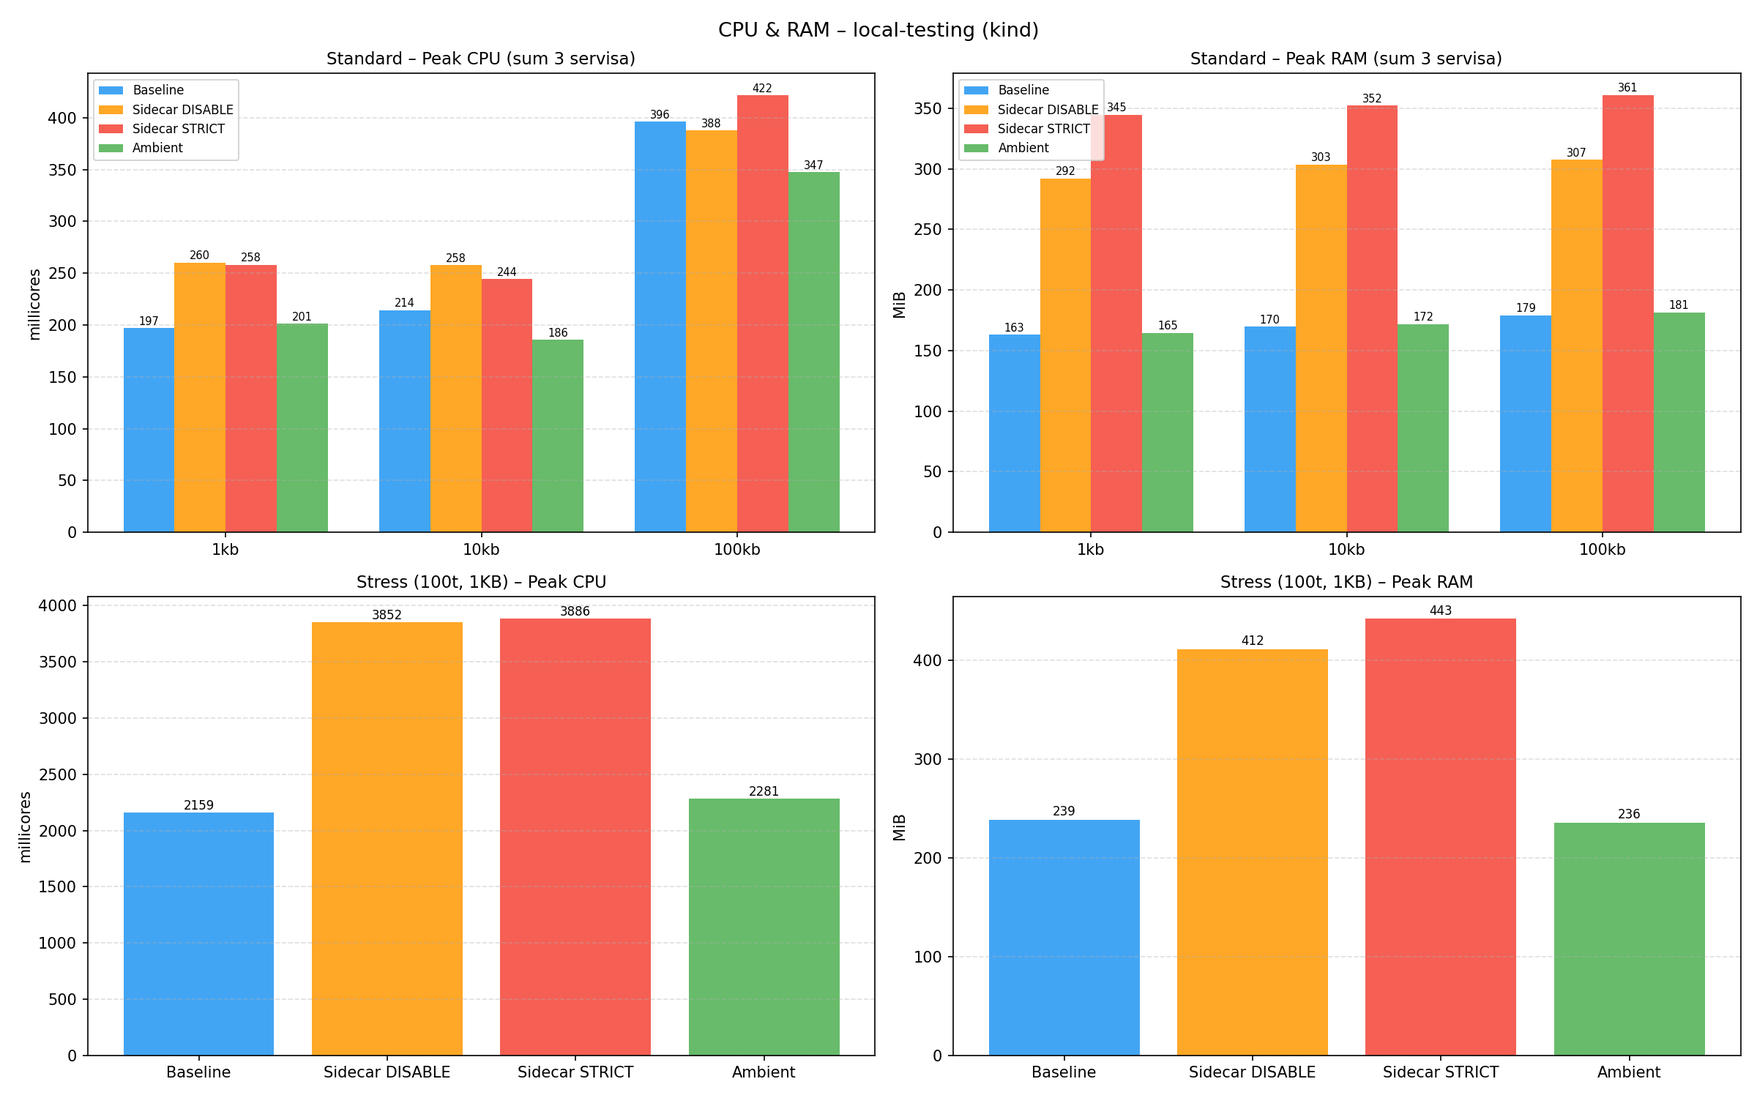
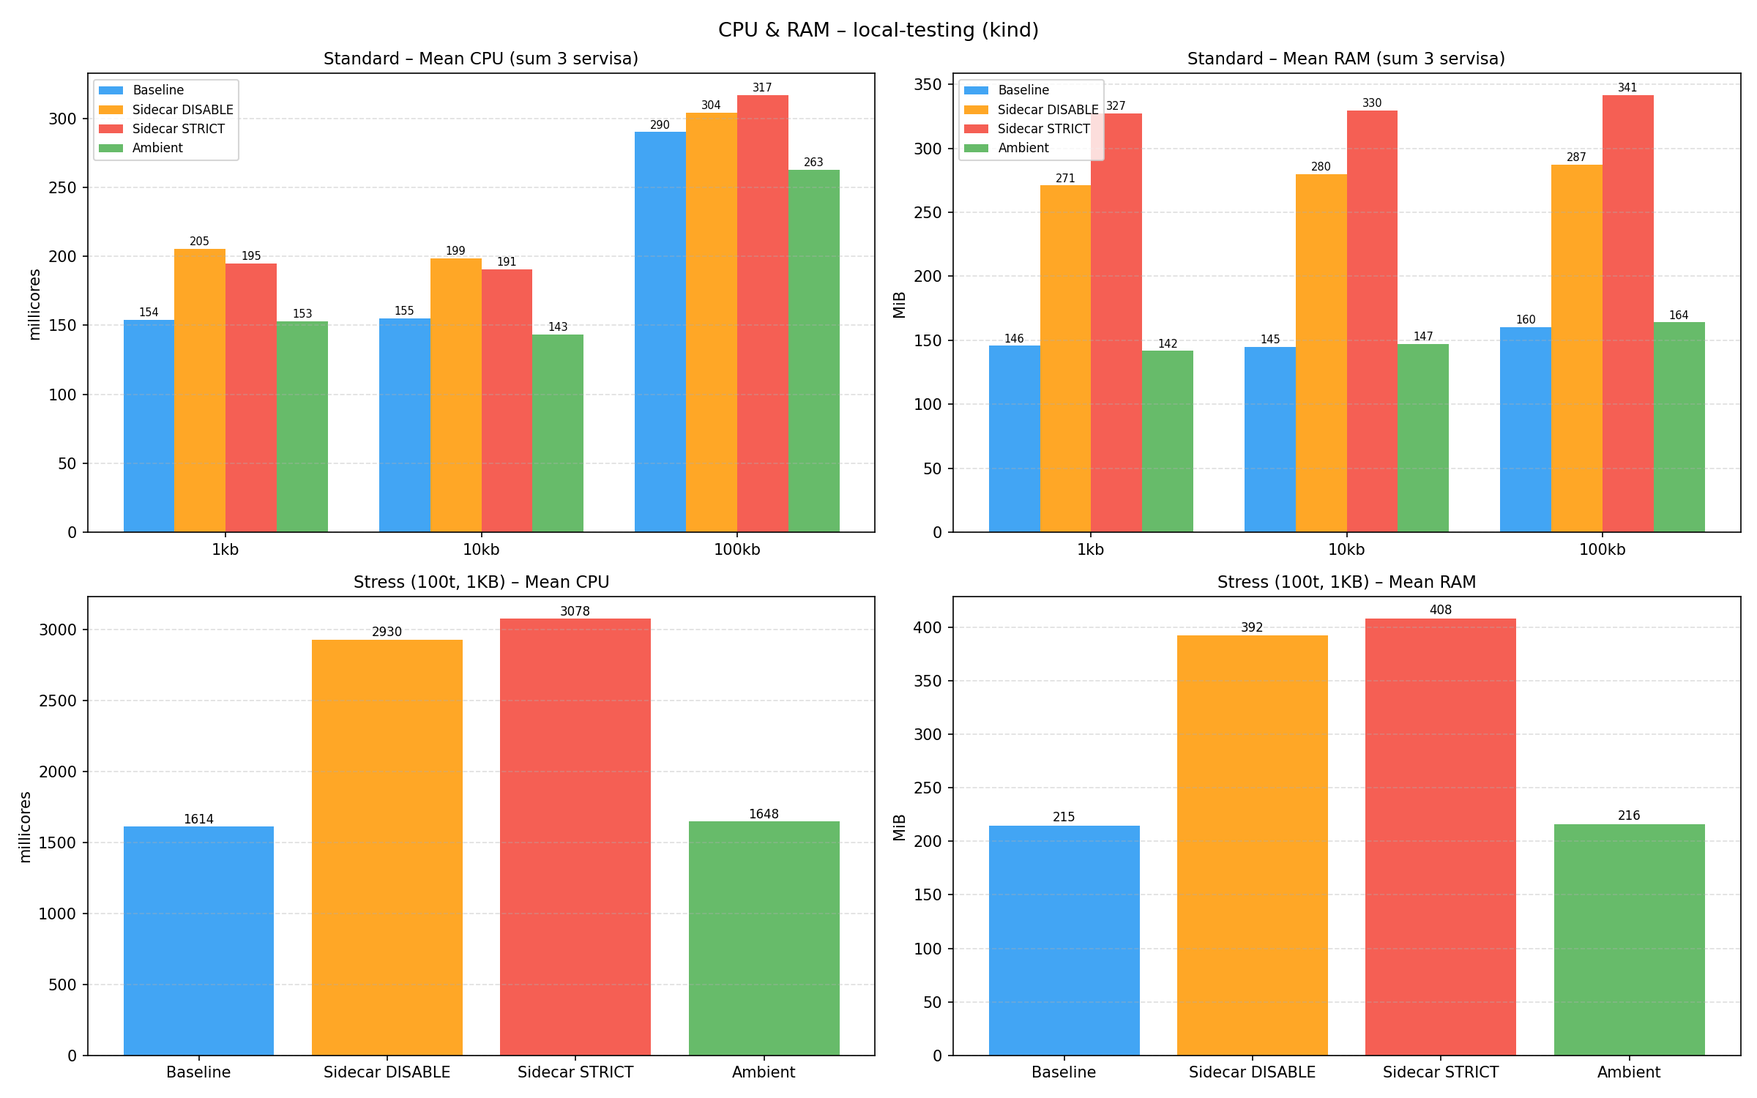
additional improvements in readme and results

diff --git a/generate_charts.py b/generate_charts.py
@@ -47,7 +47,7 @@ def lt_load_stress_runs(scenario, threads, payload, n_runs=3):
     return sum(qps_list)/n_runs, sum(avg_list)/n_runs, sum(p99_list)/n_runs
 
 def lt_load_resources_csv(scenario, test_type, payload, run_id):
-    """Učitaj resources CSV za jedan run, vrati peak CPU (sum sva 3 servisa) i peak RAM."""
+    """Učitaj resources CSV za jedan run, vrati mean CPU (sum sva 3 servisa) i mean RAM."""
     if test_type == "standard":
         path = os.path.join(LOCAL_TESTING, scenario, "03_resources_standard",
                             payload, f"run{run_id}_resources.csv")
@@ -72,9 +72,9 @@ def lt_load_resources_csv(scenario, test_type, payload, run_id):
                 if svc in pod:
                     cpu_by_svc[svc].append(cpu_val)
                     ram_by_svc[svc].append(ram_val)
-    peak_cpu = sum(max(v) if v else 0 for v in cpu_by_svc.values())
-    peak_ram = sum(max(v) if v else 0 for v in ram_by_svc.values())
-    return peak_cpu, peak_ram
+    mean_cpu = sum(sum(v)/len(v) if v else 0 for v in cpu_by_svc.values())
+    mean_ram = sum(sum(v)/len(v) if v else 0 for v in ram_by_svc.values())
+    return mean_cpu, mean_ram
 
 # ── LOCAL-TESTING 1. Bar chart – standard latency po payload-u ──
 def lt_chart_standard():
@@ -172,7 +172,7 @@ def lt_chart_stress():
     print(f"Saved: {out}")
     plt.close()
 
-# ── LOCAL-TESTING 3. Bar chart – peak CPU i RAM po scenariju ──
+# ── LOCAL-TESTING 3. Bar chart – mean CPU i RAM po scenariju ──
 def lt_chart_resources():
     scenarios = {
         "Baseline":        "baseline",
@@ -182,7 +182,7 @@ def lt_chart_resources():
     }
     payloads = ["1kb", "10kb", "100kb"]
 
-    # Prikupi peak CPU i RAM za standard testove (mean po 5 runova)
+    # Prikupi mean CPU i RAM za standard testove (mean po 5 runova)
     std_cpu = {label: [] for label in scenarios}
     std_ram = {label: [] for label in scenarios}
     for label, sc in scenarios.items():
@@ -198,7 +198,7 @@ def lt_chart_resources():
             std_cpu[label].append(sum(cpus)/len(cpus) if cpus else 0)
             std_ram[label].append(sum(rams)/len(rams) if rams else 0)
 
-    # Prikupi peak CPU i RAM za stress 100t 1kb (mean po 3 runa)
+    # Prikupi mean CPU i RAM za stress 100t 1kb (mean po 3 runa)
     stress_cpu = {label: 0 for label in scenarios}
     stress_ram = {label: 0 for label in scenarios}
     for label, sc in scenarios.items():
@@ -227,7 +227,7 @@ def lt_chart_resources():
         for bar in bars:
             ax.text(bar.get_x() + bar.get_width()/2, bar.get_height() + 1,
                     f"{bar.get_height():.0f}", ha="center", va="bottom", fontsize=7)
-    ax.set_title("Standard – Peak CPU (sum 3 servisa)", fontsize=11)
+    ax.set_title("Standard – Mean CPU (sum 3 servisa)", fontsize=11)
     ax.set_ylabel("millicores")
     ax.set_xticks(x)
     ax.set_xticklabels(payloads)
@@ -242,7 +242,7 @@ def lt_chart_resources():
         for bar in bars:
             ax.text(bar.get_x() + bar.get_width()/2, bar.get_height() + 1,
                     f"{bar.get_height():.0f}", ha="center", va="bottom", fontsize=7)
-    ax.set_title("Standard – Peak RAM (sum 3 servisa)", fontsize=11)
+    ax.set_title("Standard – Mean RAM (sum 3 servisa)", fontsize=11)
     ax.set_ylabel("MiB")
     ax.set_xticks(x)
     ax.set_xticklabels(payloads)
@@ -258,7 +258,7 @@ def lt_chart_resources():
     for bar in bars:
         ax.text(bar.get_x() + bar.get_width()/2, bar.get_height() + 1,
                 f"{bar.get_height():.0f}", ha="center", va="bottom", fontsize=8)
-    ax.set_title("Stress (100t, 1KB) – Peak CPU", fontsize=11)
+    ax.set_title("Stress (100t, 1KB) – Mean CPU", fontsize=11)
     ax.set_ylabel("millicores")
     ax.grid(axis="y", linestyle="--", alpha=0.4)
 
@@ -269,7 +269,7 @@ def lt_chart_resources():
     for bar in bars:
         ax.text(bar.get_x() + bar.get_width()/2, bar.get_height() + 1,
                 f"{bar.get_height():.0f}", ha="center", va="bottom", fontsize=8)
-    ax.set_title("Stress (100t, 1KB) – Peak RAM", fontsize=11)
+    ax.set_title("Stress (100t, 1KB) – Mean RAM", fontsize=11)
     ax.set_ylabel("MiB")
     ax.grid(axis="y", linestyle="--", alpha=0.4)
 
@@ -330,9 +330,9 @@ def rt_load_resources_csv(scenario, test_type, payload, run_id):
                 if svc in pod:
                     cpu_by_svc[svc].append(cpu_val)
                     ram_by_svc[svc].append(ram_val)
-    peak_cpu = sum(max(v) if v else 0 for v in cpu_by_svc.values())
-    peak_ram = sum(max(v) if v else 0 for v in ram_by_svc.values())
-    return peak_cpu, peak_ram
+    mean_cpu = sum(sum(v)/len(v) if v else 0 for v in cpu_by_svc.values())
+    mean_ram = sum(sum(v)/len(v) if v else 0 for v in ram_by_svc.values())
+    return mean_cpu, mean_ram
 
 def rt_chart_standard():
     scenarios = {
@@ -470,7 +470,7 @@ def rt_chart_resources():
         for bar in bars:
             ax.text(bar.get_x() + bar.get_width()/2, bar.get_height() + 1,
                     f"{bar.get_height():.0f}", ha="center", va="bottom", fontsize=7)
-    ax.set_title("Standard – Peak CPU (sum 3 servisa)", fontsize=11)
+    ax.set_title("Standard – Mean CPU (sum 3 servisa)", fontsize=11)
     ax.set_ylabel("millicores")
     ax.set_xticks(x)
     ax.set_xticklabels(payloads)
@@ -484,7 +484,7 @@ def rt_chart_resources():
         for bar in bars:
             ax.text(bar.get_x() + bar.get_width()/2, bar.get_height() + 1,
                     f"{bar.get_height():.0f}", ha="center", va="bottom", fontsize=7)
-    ax.set_title("Standard – Peak RAM (sum 3 servisa)", fontsize=11)
+    ax.set_title("Standard – Mean RAM (sum 3 servisa)", fontsize=11)
     ax.set_ylabel("MiB")
     ax.set_xticks(x)
     ax.set_xticklabels(payloads)
@@ -499,7 +499,7 @@ def rt_chart_resources():
     for bar in bars:
         ax.text(bar.get_x() + bar.get_width()/2, bar.get_height() + 1,
                 f"{bar.get_height():.0f}", ha="center", va="bottom", fontsize=8)
-    ax.set_title("Stress (100t, 1KB) – Peak CPU", fontsize=11)
+    ax.set_title("Stress (100t, 1KB) – Mean CPU", fontsize=11)
     ax.set_ylabel("millicores")
     ax.grid(axis="y", linestyle="--", alpha=0.4)
 
@@ -509,7 +509,7 @@ def rt_chart_resources():
     for bar in bars:
         ax.text(bar.get_x() + bar.get_width()/2, bar.get_height() + 1,
                 f"{bar.get_height():.0f}", ha="center", va="bottom", fontsize=8)
-    ax.set_title("Stress (100t, 1KB) – Peak RAM", fontsize=11)
+    ax.set_title("Stress (100t, 1KB) – Mean RAM", fontsize=11)
     ax.set_ylabel("MiB")
     ax.grid(axis="y", linestyle="--", alpha=0.4)
 

diff --git a/README.md b/README.md
@@ -87,15 +87,15 @@ Za svaki od 4 scenarija pokreću se isti tipovi testova, samo se menja Istio kon
 |----------|--------|--------|--------|---------|----------|
 | Baseline | 12.66 | 17.44 | 25.08 | 154 | 146 |
 | Sidecar + DISABLE | 12.71 | 16.94 | 21.11 | 205 | 271 |
-| Sidecar + STRICT | 12.83 | 16.93 | 19.59 | 195 | 328 |
-| Ambient | 12.48 | 16.48 | 19.34 | 153 | 141 |
+| Sidecar + STRICT | 12.83 | 16.93 | 19.59 | 195 | 327 |
+| Ambient | 12.48 | 16.48 | 19.34 | 153 | 142 |
 
 **10 KB payload:**
 
 | Scenario | Avg ms | P90 ms | P99 ms | CPU (m) | RAM (Mi) |
 |----------|--------|--------|--------|---------|----------|
 | Baseline | 13.05 | 17.67 | 25.01 | 155 | 145 |
-| Sidecar + DISABLE | 12.64 | 16.89 | 19.61 | 199 | 279 |
+| Sidecar + DISABLE | 12.64 | 16.89 | 19.61 | 199 | 280 |
 | Sidecar + STRICT | 12.84 | 16.91 | 19.75 | 191 | 330 |
 | Ambient | 12.84 | 16.95 | 19.66 | 143 | 147 |
 
@@ -118,12 +118,46 @@ Za svaki od 4 scenarija pokreću se isti tipovi testova, samo se menja Istio kon
 | 10 | Ambient | 1372 | 7.30 | 16.17 | 1456 | 178 |
 | 50 | Baseline | 1431 | 34.97 | 67.48 | 1547 | 193 |
 | 50 | Sidecar + DISABLE | 2424 | 20.62 | 32.63 | 2855 | 335 |
-| 50 | Sidecar + STRICT | 2315 | 21.59 | 34.36 | 2911 | 371 |
+| 50 | Sidecar + STRICT | 2315 | 21.59 | 34.36 | 2911 | 372 |
 | 50 | Ambient | 1375 | 36.45 | 72.20 | 1533 | 192 |
 | 100 | Baseline | 1631 | 61.58 | 118.87 | 1614 | 215 |
 | 100 | Sidecar + DISABLE | 2561 | 39.05 | 59.63 | 2930 | 392 |
 | 100 | Sidecar + STRICT | 2483 | 40.27 | 63.22 | 3078 | 408 |
 | 100 | Ambient | 1602 | 62.58 | 126.97 | 1648 | 216 |
+
+#### Stress test (max QPS, 60s, 10KB payload)
+
+| Threads | Scenario | QPS | Avg ms | P99 ms | CPU (m) | RAM (Mi) |
+|---------|----------|-----|--------|--------|---------|----------|
+| 10 | Baseline | 1523 | 6.57 | 13.71 | 1749 | 182 |
+| 10 | Sidecar + DISABLE | 1564 | 6.39 | 10.60 | 2317 | 341 |
+| 10 | Sidecar + STRICT | 1477 | 6.77 | 10.98 | 2255 | 372 |
+| 10 | Ambient | 1513 | 6.61 | 13.89 | 1657 | 185 |
+| 50 | Baseline | 1450 | 34.51 | 60.72 | 1685 | 195 |
+| 50 | Sidecar + DISABLE | 2038 | 24.53 | 38.22 | 2990 | 355 |
+| 50 | Sidecar + STRICT | 1955 | 25.57 | 39.72 | 3086 | 400 |
+| 50 | Ambient | 1383 | 36.16 | 72.42 | 1679 | 194 |
+| 100 | Baseline | 1656 | 60.60 | 108.42 | 1670 | 218 |
+| 100 | Sidecar + DISABLE | 2141 | 46.70 | 69.33 | 2803 | 393 |
+| 100 | Sidecar + STRICT | 2058 | 48.58 | 74.21 | 2975 | 418 |
+| 100 | Ambient | 1440 | 69.56 | 188.46 | 1699 | 217 |
+
+#### Stress test (max QPS, 60s, 100KB payload)
+
+| Threads | Scenario | QPS | Avg ms | P99 ms | CPU (m) | RAM (Mi) |
+|---------|----------|-----|--------|--------|---------|----------|
+| 10 | Baseline | 689 | 14.51 | 23.18 | 2051 | 204 |
+| 10 | Sidecar + DISABLE | 652 | 15.35 | 24.65 | 2303 | 372 |
+| 10 | Sidecar + STRICT | 591 | 16.93 | 26.56 | 2669 | 380 |
+| 10 | Ambient | 559 | 17.87 | 28.01 | 2078 | 187 |
+| 50 | Baseline | 722 | 69.22 | 97.74 | 2148 | 233 |
+| 50 | Sidecar + DISABLE | 783 | 63.81 | 93.69 | 2747 | 423 |
+| 50 | Sidecar + STRICT | 761 | 65.65 | 97.24 | 2790 | 433 |
+| 50 | Ambient | 654 | 76.36 | 115.23 | 1856 | 230 |
+| 100 | Baseline | 825 | 121.16 | 158.09 | 2158 | 278 |
+| 100 | Sidecar + DISABLE | 804 | 124.24 | 173.29 | 2849 | 448 |
+| 100 | Sidecar + STRICT | 785 | 127.31 | 177.49 | 2793 | 460 |
+| 100 | Ambient | 646 | 154.75 | 244.09 | 1914 | 263 |
 
 ### Case Study B – Remote (GKE)
 
@@ -136,17 +170,17 @@ Za svaki od 4 scenarija pokreću se isti tipovi testova, samo se menja Istio kon
 | Payload | Scenario | Avg ms | P90 ms | P99 ms | CPU (m) | RAM (Mi) |
 |---------|----------|--------|--------|--------|---------|----------|
 | 1KB | Baseline | 68.21 | 77.28 | 107.03 | 272 | 137 |
-| 1KB | Sidecar + DISABLE | 80.39 | 91.58 | 125.22 | 422 | 241 |
+| 1KB | Sidecar + DISABLE | 80.39 | 91.58 | 125.22 | 421 | 241 |
 | 1KB | Sidecar + STRICT | 78.07 | 88.18 | 123.86 | 394 | 278 |
 | 1KB | Ambient | 83.89 | 100.11 | 167.97 | 316 | 148 |
 | 10KB | Baseline | 69.99 | 78.65 | 105.23 | 266 | 145 |
-| 10KB | Sidecar + DISABLE | 84.69 | 99.69 | 150.01 | 408 | 249 |
+| 10KB | Sidecar + DISABLE | 84.69 | 99.69 | 150.01 | 409 | 250 |
 | 10KB | Sidecar + STRICT | 81.96 | 91.67 | 127.50 | 419 | 282 |
 | 10KB | Ambient | 88.54 | 103.49 | 163.92 | 321 | 159 |
 | 100KB | Baseline | 94.48 | 118.66 | 170.67 | 566 | 154 |
 | 100KB | Sidecar + DISABLE | 105.37 | 136.25 | 224.71 | 826 | 268 |
 | 100KB | Sidecar + STRICT | 97.16 | 120.19 | 186.89 | 687 | 294 |
-| 100KB | Ambient | 107.67 | 135.15 | 220.00 | 660 | 179 |
+| 100KB | Ambient | 107.67 | 135.15 | 220.00 | 660 | 180 |
 
 > **Napomena 100KB:** Fortio nije mogao da dostigne 50 QPS (100KB odgovor traje ~100ms, interval za 50 QPS = 20ms). Stvarni QPS bio je ~38–45. Ovo je I/O-bound ponašanje, ne greška.
 
@@ -156,16 +190,50 @@ Za svaki od 4 scenarija pokreću se isti tipovi testova, samo se menja Istio kon
 |---------|----------|-----|--------|--------|---------|----------|
 | 10 | Baseline | 141 | 70.97 | 128.37 | 516 | 159 |
 | 10 | Sidecar + DISABLE | 125 | 80.16 | 154.49 | 873 | 253 |
-| 10 | Sidecar + STRICT | 113 | 89.08 | 181.16 | 820 | 260 |
+| 10 | Sidecar + STRICT | 130 | 77.05 | 165.48 | 820 | 260 |
 | 10 | Ambient | 116 | 86.44 | 170.68 | 650 | 157 |
-| 50 | Baseline | 296 | 168.61 | 302.05 | 1072 | 184 |
+| 50 | Baseline | 296 | 168.61 | 302.05 | 1071 | 183 |
 | 50 | Sidecar + DISABLE | 188 | 265.11 | 455.54 | 1110 | 286 |
-| 50 | Sidecar + STRICT | 172 | 289.82 | 485.34 | 1129 | 298 |
+| 50 | Sidecar + STRICT | 211 | 236.88 | 414.99 | 1129 | 298 |
 | 50 | Ambient | 155 | 322.38 | 558.27 | 712 | 170 |
-| 100 | Baseline | 310 | 322.68 | 518.55 | 1188 | 201 |
+| 100 | Baseline | 310 | 322.68 | 518.55 | 1188 | 202 |
 | 100 | Sidecar + DISABLE | 195 | 510.85 | 797.05 | 1153 | 305 |
-| 100 | Sidecar + STRICT | 172 | 581.65 | 1253.22 | 1238 | 336 |
-| 100 | Ambient | 138 | 765.89 | 2410.23 | 691 | 180 |
+| 100 | Sidecar + STRICT | 219 | 455.99 | 710.45 | 1238 | 336 |
+| 100 | Ambient | 138 | 765.89 | 2410.23 | 691 | 179 |
+
+#### Stress test (max QPS, 60s, 10KB)
+
+| Threads | Scenario | QPS | Avg ms | P99 ms | CPU (m) | RAM (Mi) |
+|---------|----------|-----|--------|--------|---------|----------|
+| 10 | Baseline | 139 | 71.89 | 149.62 | 773 | 186 |
+| 10 | Sidecar + DISABLE | 106 | 94.10 | 203.80 | 870 | 288 |
+| 10 | Sidecar + STRICT | 123 | 80.94 | 174.99 | 793 | 294 |
+| 10 | Ambient | 102 | 98.26 | 196.79 | 613 | 163 |
+| 50 | Baseline | 270 | 184.88 | 349.92 | 1141 | 200 |
+| 50 | Sidecar + DISABLE | 173 | 289.35 | 496.21 | 1130 | 307 |
+| 50 | Sidecar + STRICT | 192 | 260.71 | 452.64 | 1180 | 331 |
+| 50 | Ambient | 139 | 359.87 | 586.77 | 729 | 179 |
+| 100 | Baseline | 277 | 359.72 | 581.74 | 1288 | 222 |
+| 100 | Sidecar + DISABLE | 179 | 558.79 | 896.43 | 1210 | 325 |
+| 100 | Sidecar + STRICT | 197 | 507.57 | 805.12 | 1239 | 342 |
+| 100 | Ambient | 145 | 689.35 | 1037.16 | 755 | 209 |
+
+#### Stress test (max QPS, 60s, 100KB)
+
+| Threads | Scenario | QPS | Avg ms | P99 ms | CPU (m) | RAM (Mi) |
+|---------|----------|-----|--------|--------|---------|----------|
+| 10 | Baseline | 77 | 129.22 | 252.05 | 897 | 195 |
+| 10 | Sidecar + DISABLE | 47 | 216.48 | 468.91 | 774 | 286 |
+| 10 | Sidecar + STRICT | 83 | 120.99 | 270.41 | 1101 | 328 |
+| 10 | Ambient | 38 | 269.58 | 689.92 | 468 | 162 |
+| 50 | Baseline | 83 | 602.61 | 969.41 | 814 | 207 |
+| 50 | Sidecar + DISABLE | 61 | 822.88 | 1759.15 | 900 | 331 |
+| 50 | Sidecar + STRICT | 96 | 519.18 | 935.88 | 1225 | 382 |
+| 50 | Ambient | 50 | 999.54 | 2276.51 | 534 | 202 |
+| 100 | Baseline | 87 | 1141.42 | 2104.18 | 904 | 215 |
+| 100 | Sidecar + DISABLE | 68 | 1462.48 | 1998.32 | 916 | 327 |
+| 100 | Sidecar + STRICT | 95 | 1049.13 | 1878.66 | 1232 | 382 |
+| 100 | Ambient | 63 | 1577.95 | 2409.02 | 608 | 205 |
 
 #### Grafici
 
@@ -220,32 +288,32 @@ Za svaki od 4 scenarija pokreću se isti tipovi testova, samo se menja Istio kon
 |---------|----------|---------------|-----|--------|
 | 10 | Baseline | 1532 | 141 | 10.9× |
 | 10 | Sidecar DISABLE | 1818 | 125 | 14.5× |
-| 10 | Sidecar STRICT | 1728 | 113 | 15.3× |
+| 10 | Sidecar STRICT | 1728 | 130 | 13.3× |
 | 10 | Ambient | 1372 | 116 | 11.8× |
 | 50 | Baseline | 1431 | 296 | 4.8× |
 | 50 | Sidecar DISABLE | 2424 | 188 | 12.9× |
-| 50 | Sidecar STRICT | 2315 | 172 | 13.5× |
+| 50 | Sidecar STRICT | 2315 | 211 | 11.0× |
 | 50 | Ambient | 1375 | 155 | 8.9× |
 | 100 | Baseline | 1631 | 310 | 5.3× |
 | 100 | Sidecar DISABLE | 2561 | 195 | 13.1× |
-| 100 | Sidecar STRICT | 2483 | 172 | 14.4× |
+| 100 | Sidecar STRICT | 2483 | 219 | 11.3× |
 | 100 | Ambient | 1602 | 138 | 11.6× |
 
 #### Stress – QPS (10 KB)
 
 | Threads | Scenario | Lokalno (kind) | GKE | Faktor |
 |---------|----------|---------------|-----|--------|
-| 10 | Baseline | 1523 | 139 | 10.9× |
+| 10 | Baseline | 1523 | 139 | 11.0× |
 | 10 | Sidecar DISABLE | 1564 | 106 | 14.8× |
-| 10 | Sidecar STRICT | 1477 | 103 | 14.3× |
+| 10 | Sidecar STRICT | 1477 | 123 | 12.0× |
 | 10 | Ambient | 1513 | 102 | 14.8× |
 | 50 | Baseline | 1450 | 270 | 5.4× |
 | 50 | Sidecar DISABLE | 2038 | 173 | 11.8× |
-| 50 | Sidecar STRICT | 1955 | 124 | 15.8× |
+| 50 | Sidecar STRICT | 1955 | 192 | 10.2× |
 | 50 | Ambient | 1383 | 139 | 9.9× |
 | 100 | Baseline | 1656 | 277 | 6.0× |
 | 100 | Sidecar DISABLE | 2141 | 179 | 12.0× |
-| 100 | Sidecar STRICT | 2058 | 262 | 7.9× |
+| 100 | Sidecar STRICT | 2058 | 197 | 10.4× |
 | 100 | Ambient | 1440 | 145 | 9.9× |
 
 #### Stress – QPS (100 KB)
@@ -254,15 +322,15 @@ Za svaki od 4 scenarija pokreću se isti tipovi testova, samo se menja Istio kon
 |---------|----------|---------------|-----|--------|
 | 10 | Baseline | 689 | 77 | 8.9× |
 | 10 | Sidecar DISABLE | 652 | 47 | 13.9× |
-| 10 | Sidecar STRICT | 591 | 79 | 7.5× |
+| 10 | Sidecar STRICT | 591 | 83 | 7.1× |
 | 10 | Ambient | 559 | 38 | 14.7× |
 | 50 | Baseline | 722 | 83 | 8.7× |
 | 50 | Sidecar DISABLE | 783 | 61 | 12.8× |
-| 50 | Sidecar STRICT | 761 | 104 | 7.3× |
+| 50 | Sidecar STRICT | 761 | 96 | 7.9× |
 | 50 | Ambient | 654 | 50 | 13.1× |
 | 100 | Baseline | 825 | 87 | 9.5× |
 | 100 | Sidecar DISABLE | 804 | 68 | 11.8× |
-| 100 | Sidecar STRICT | 785 | 72 | 10.9× |
+| 100 | Sidecar STRICT | 785 | 95 | 8.3× |
 | 100 | Ambient | 646 | 63 | 10.3× |
 
 > GKE ima ~5–15× niži QPS u odnosu na lokalno zbog realne mrežne latencije. Relativni redosled scenarija ostaje uglavnom konzistentan, uz izuzetak 100KB gde Sidecar STRICT na GKE-u nadmašuje Baseline zahvaljujući connection pooling-u Envoy proxy-ja.
@@ -1068,19 +1136,19 @@ gcloud container clusters resize istio-research-cluster \
 2. mTLS enkripcija ne dodaje značajan overhead pri normalnom opterećenju – Sidecar STRICT (mTLS aktivan) je blago brži 
 od Sidecar DISABLE pri 1KB i 10KB payload-u (78ms vs 80ms, 82ms vs 85ms). Razlog: ova razlika nije direktno vezana za mTLS mehanizam, već verovatno proizilazi iz ponašanja konekcija (connection reuse, pooling) i implementacionih detalja Envoy proxy-ja. HTTP protokol (HTTP/1.1 vs HTTP/2) nije direktno vezan za mTLS mod i konfiguriše se nezavisno. Ovo je ključan nalaz: uključivanje mTLS-a ne mora nužno dovesti do pogoršanja performansi.
 
-3. **Sidecar STRICT + 100KB stress: viši QPS nego Baseline** – pri stress testu sa 100KB payload-om, Sidecar STRICT postiže 79–104 QPS naspram Baseline-ovih 77–83 QPS. Ovaj efekat verovatno proizilazi iz efikasnijeg upravljanja konekcijama (connection reuse, pooling) i optimizacija unutar Envoy proxy-ja, koje pri većim payload-ovima i višoj konkurentnosti dolaze do izražaja.
+3. **Sidecar STRICT + 100KB stress: viši QPS nego Baseline** – pri stress testu sa 100KB payload-om, Sidecar STRICT postiže 83–96 QPS naspram Baseline-ovih 77–87 QPS. Ovaj efekat verovatno proizilazi iz efikasnijeg upravljanja konekcijama (connection reuse, pooling) i optimizacija unutar Envoy proxy-ja, koje pri većim payload-ovima i višoj konkurentnosti dolaze do izražaja.
 
 4. **Overhead Istio-a raste sa konkurentnošću (1KB stress)**:
 
    | Threads | Baseline | Sidecar DISABLE | Sidecar STRICT | Ambient |
    |---------|----------|-----------------|----------------|---------|
-   | 10t QPS | 141 | 125 (-11%) | 113 (-20%) | 116 (-18%) |
-   | 50t QPS | 296 | 188 (-36%) | 172 (-42%) | 155 (-48%) |
-   | 100t QPS | 310 | 195 (-37%) | 172 (-44%) | 138 (-55%) |
+   | 10t QPS | 141 | 125 (-11%) | 130 (-8%) | 116 (-18%) |
+   | 50t QPS | 296 | 188 (-36%) | 211 (-29%) | 155 (-48%) |
+   | 100t QPS | 310 | 195 (-37%) | 219 (-29%) | 138 (-55%) |
 
-   Relativni pad QPS-a raste od ~11–20% pri 10 threadova do 37–55% pri 100 threadova. Sistem postaje **proxy-CPU-bound**, ne mrežno-bound — merenja potvrđuju: Sidecar scenariji na GKE pri 100t troše 1153–1238m od ukupno ~2000m dostupnih (2 vCPU × 1000m), dok Baseline troši 1188m ali postiže viši QPS jer nema proxy sloj.
+   Relativni pad QPS-a raste od ~8–18% pri 10 threadova do 29–55% pri 100 threadova. Sistem postaje **proxy-CPU-bound**, ne mrežno-bound — merenja potvrđuju: Sidecar scenariji na GKE pri 100t troše 1153–1238m od ukupno ~2000m dostupnih (2 vCPU × 1000m), dok Baseline troši 1188m ali postiže viši QPS jer nema proxy sloj.
 
-5. **Ambient je najslabiji pod visokim stresom, ali sa znatno manjim resursnim otiskom** – ztunnel radi na nivou čvora i svaki paket prolazi kernel ↔ ztunnel ↔ kernel tranziciju. Pod visokom konkurentnošću, ovaj overhead postaje bottleneck koji sidecar model nema. Pri 100KB/100t ambient postiže 38–50 QPS vs Baseline 77–83 QPS. Međutim, Ambient troši značajno manje resursa od Sidecar modela pri visokom stresu (691m CPU / 180 Mi vs 1238m / 336 Mi za Sidecar STRICT pri 100t/1KB na GKE), što može biti odlučujući faktor u okruženjima sa ograničenim resursima.
+5. **Ambient je najslabiji pod visokim stresom, ali sa znatno manjim resursnim otiskom** – ztunnel radi na nivou čvora i svaki paket prolazi kernel ↔ ztunnel ↔ kernel tranziciju. Pod visokom konkurentnošću, ovaj overhead postaje bottleneck koji sidecar model nema. Pri 100KB stress testu Ambient postiže 38 QPS (10t), 50 QPS (50t), 63 QPS (100t) vs Baseline 77–87 QPS. Međutim, Ambient troši značajno manje resursa od Sidecar modela pri visokom stresu (691m CPU / 179 Mi vs 1238m / 336 Mi za Sidecar STRICT pri 100t/1KB na GKE), što može biti odlučujući faktor u okruženjima sa ograničenim resursima.
 
 ### Sveobuhvatni zaključci
 
@@ -1094,7 +1162,7 @@ od Sidecar DISABLE pri 1KB i 10KB payload-u (78ms vs 80ms, 82ms vs 85ms). Razlog
 
 5. **Ambient je perspektivna tehnologija sa jasnim tradeoff-om** – lošije performanse pod stresom, ali značajno manji resursni otisak od Sidecar modela (bez per-pod proxy kontejnera, CPU i RAM blizu Baseline nivoa). Dobra opcija za okruženja gde je jednostavnost i efikasnost resursa važnija od maksimalnog throughput-a.
 
-6. **Sidecar modeli nose 2–3× veći RAM overhead od Baseline-a** – u standardnom testu lokalno, Sidecar DISABLE troši 271–287 Mi, Sidecar STRICT 328–341 Mi, dok Baseline i Ambient ostaju na 141–164 Mi. Ovo je relevantan trošak u resource-constrained okruženjima (npr. edge computing, mali Kubernetes klasteri) i treba ga uzeti u obzir pri planiranju kapaciteta.
+6. **Sidecar modeli nose 2–3× veći RAM overhead od Baseline-a** – u standardnom testu lokalno, Sidecar DISABLE troši 271–280 Mi, Sidecar STRICT 327–341 Mi, dok Baseline i Ambient ostaju na 142–164 Mi. Ovo je relevantan trošak u resource-constrained okruženjima (npr. edge computing, mali Kubernetes klasteri) i treba ga uzeti u obzir pri planiranju kapaciteta.
 
 ---
 
